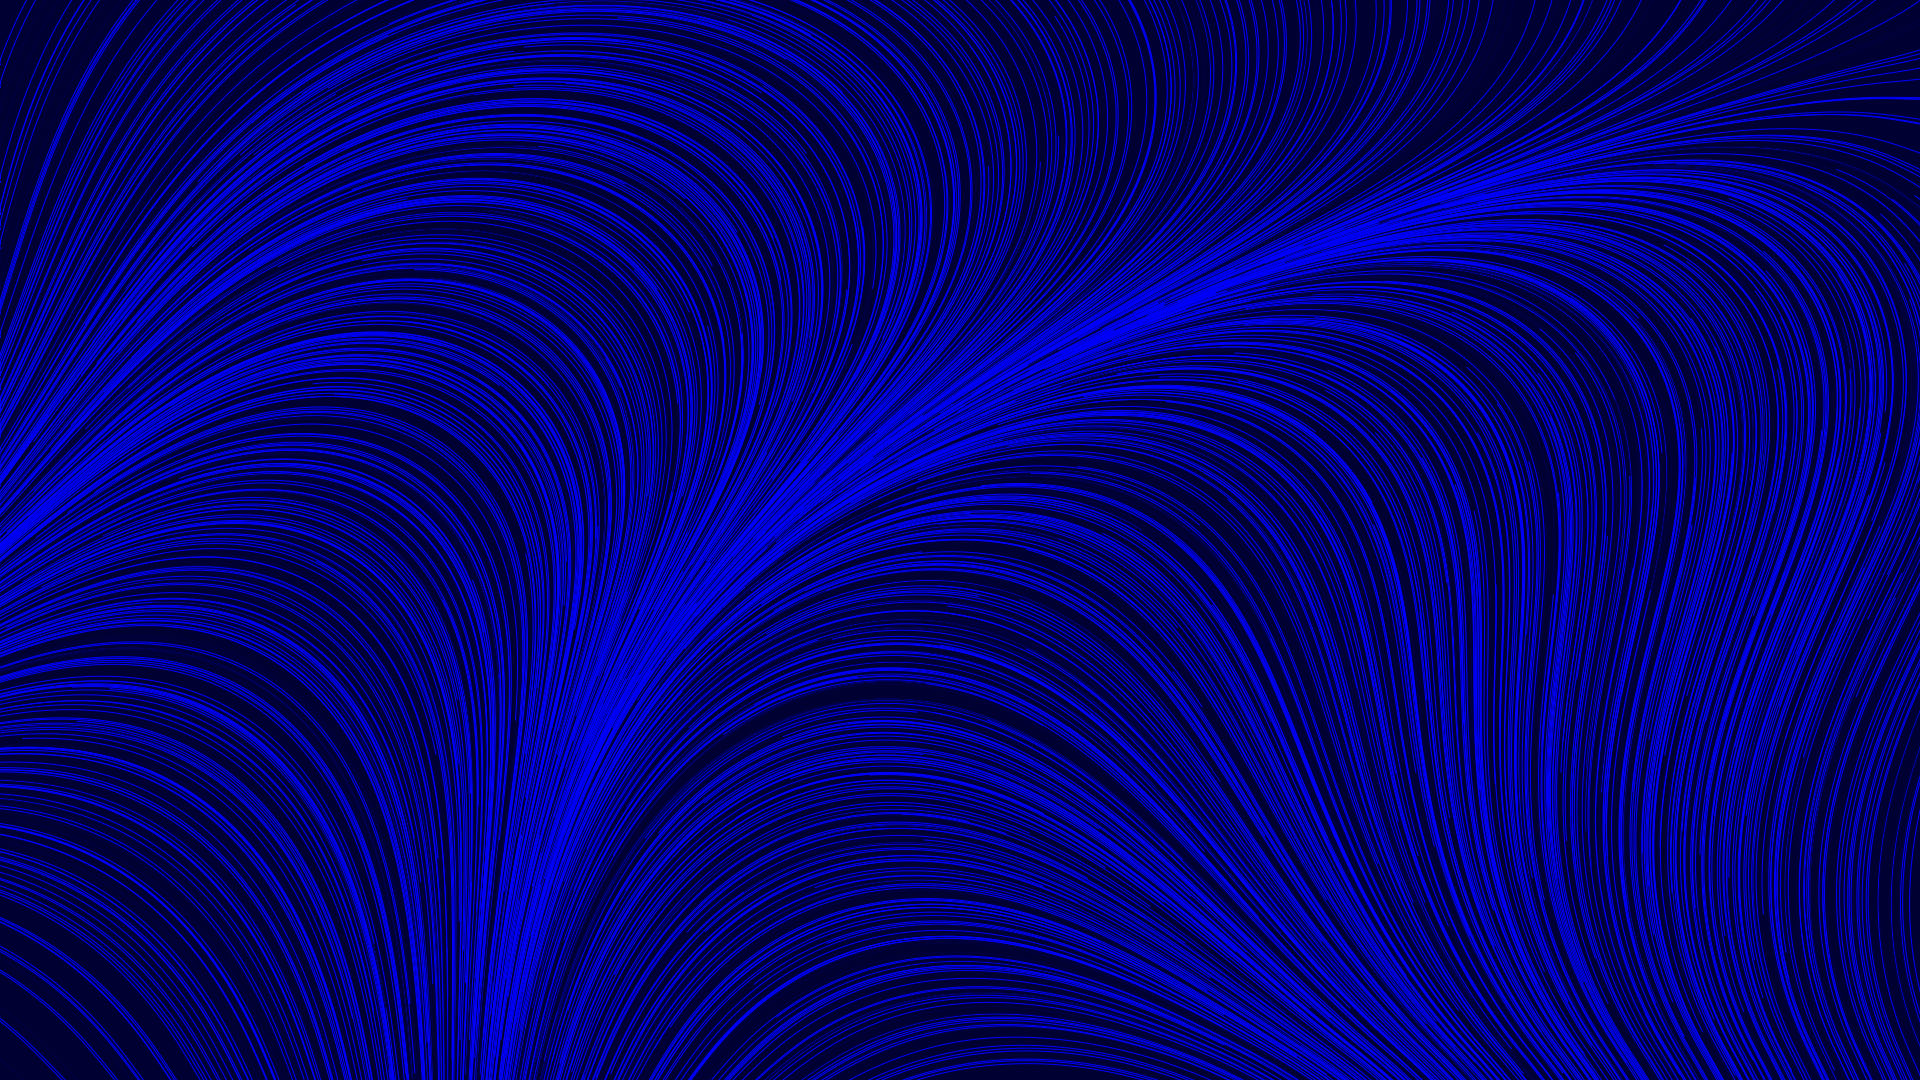
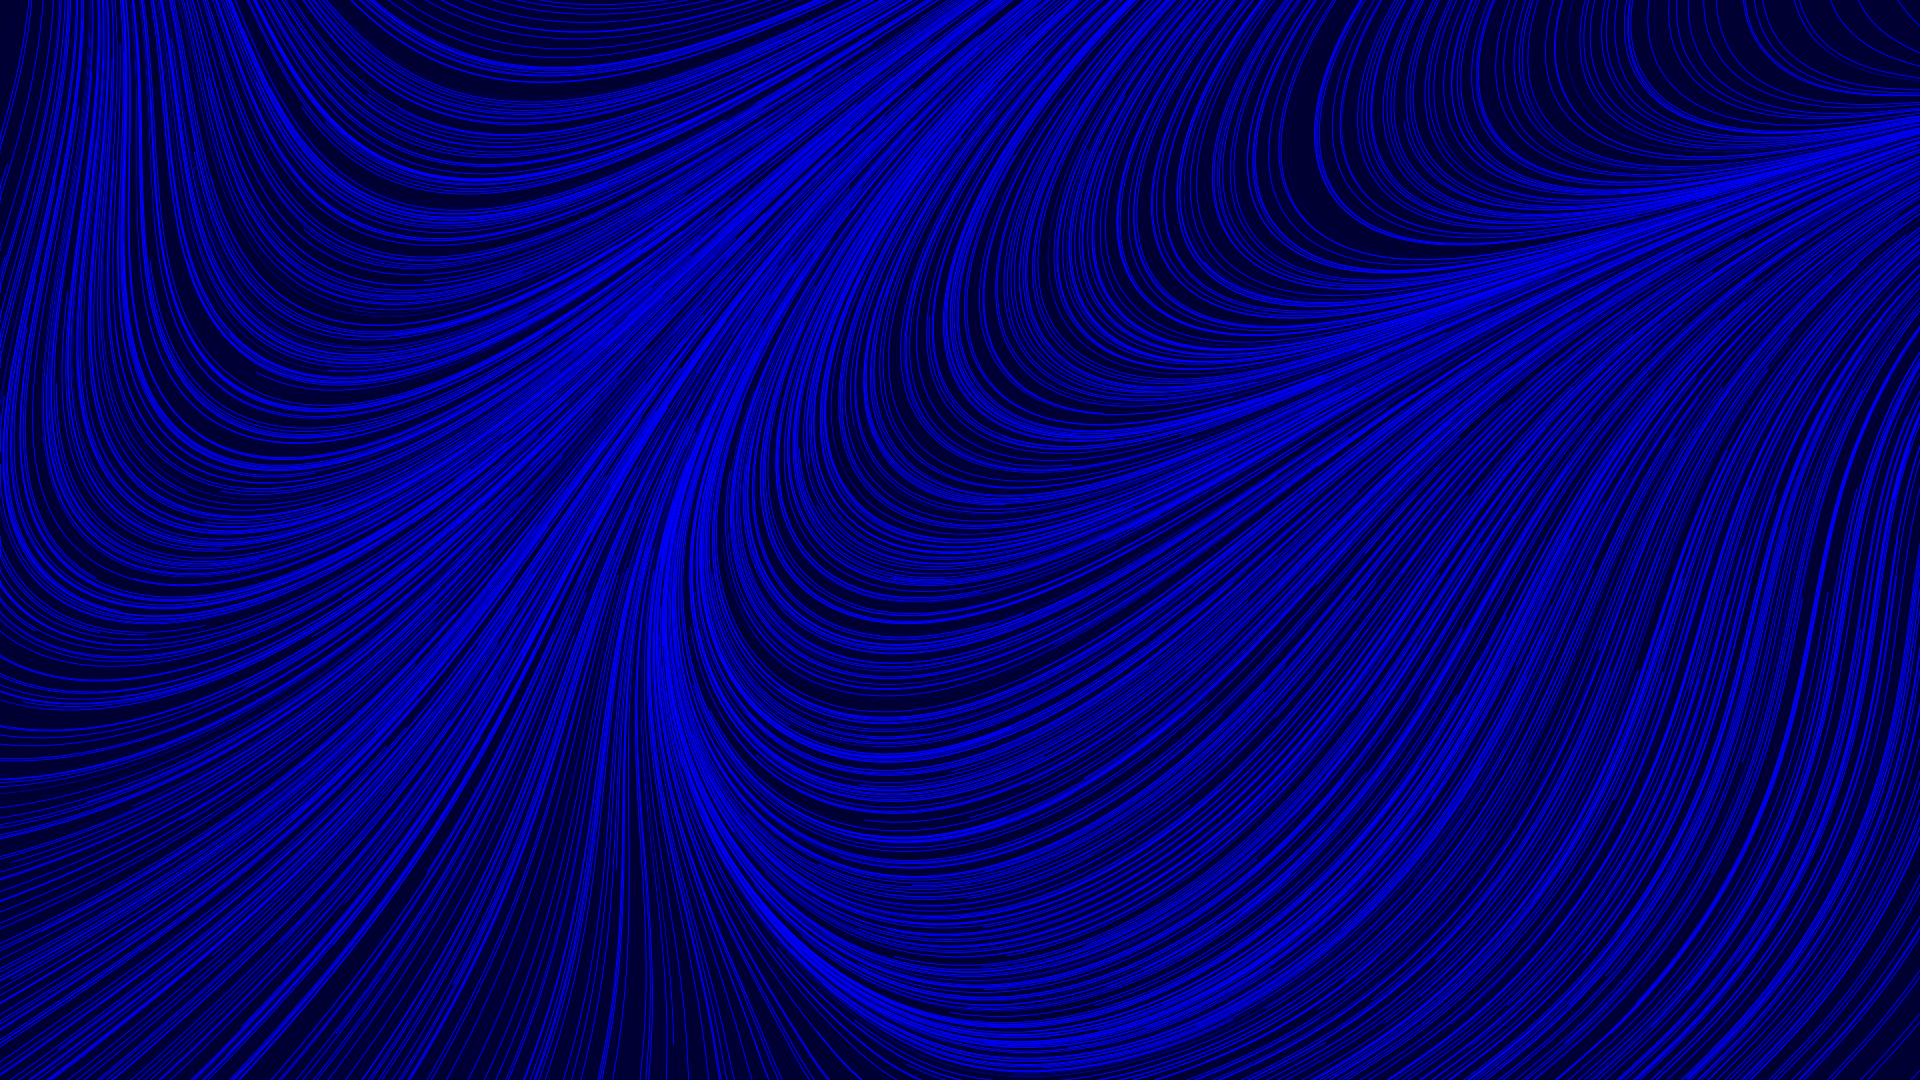
Update image

diff --git a/main.go b/main.go
@@ -14,7 +14,7 @@ func noiseFormula() core.Formula {
 	return func(vector *vectors.Vector2) *vectors.Vector2 {
 		n := p.Noise2D(vector.X/40, vector.Y/40) * 10
 
-		return vectors.NewVector2(math.Cos(n), math.Sin(n))
+		return vectors.NewVector2(math.Cos(n+10), math.Sin(n))
 	}
 }
 
